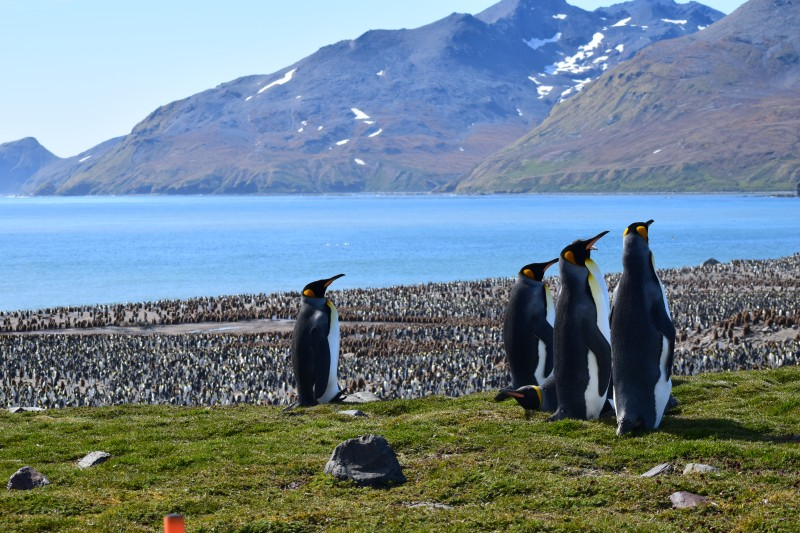
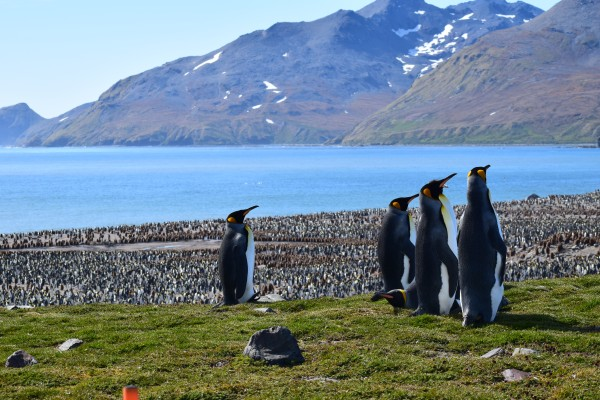
Update Group Travel “antarctic-arctic-cruise-planning-facilitation”

Changed region(s): [[0.15, 0.72, 0.18, 0.75]]

diff --git a/content/group-travel/antarctic-arctic-cruise-planning-facilitation.md b/content/group-travel/antarctic-arctic-cruise-planning-facilitation.md
@@ -15,7 +15,7 @@ day_by_day: >-
   coordination.
 
 
-  ![]( "Antarctica Expedition")
+  ![](/assets/images/gallery/dsc_2954.jpg "Antarctica Expedition")
 
 
   ## 10-Day Antarctica Cruise
@@ -40,7 +40,7 @@ day_by_day: >-
   * A perfect introduction to the Antarctic wilderness in a shorter timeframe.
 
 
-  ![]( "Artic Polar Expedition")
+  ![](/assets/images/gallery/dsc_3268.jpg "Artic Polar Expedition")
 
 
   ## 10-Day Arctic Cruise